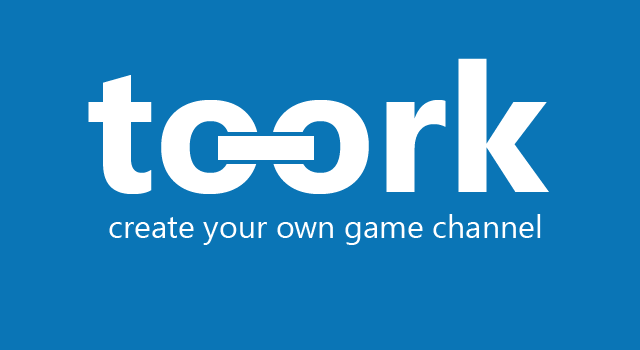
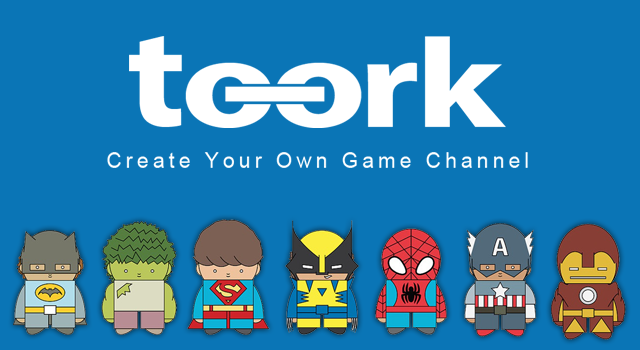
broken images and S3 integrations

diff --git a/app/Config/core.php b/app/Config/core.php
@@ -252,10 +252,10 @@ Configure::write('multiples',$multiple);
 
 # Broken Image Settings
 $broken=array(
-'toorksize'=>'http://behance.vo.llnwd.net/profiles8/1518537/projects/4937823/30028c7f07366643f15548e60dab2c95.jpg',
-'thumb'=>'http://behance.vo.llnwd.net/profiles8/1518537/projects/4937823/30028c7f07366643f15548e60dab2c95.jpg',
-'slider'=>'http://behance.vo.llnwd.net/profiles8/1518537/projects/4937823/30028c7f07366643f15548e60dab2c95.jpg',
-'avatar'=>'http://behance.vo.llnwd.net/profiles8/1518537/projects/4937823/30028c7f07366643f15548e60dab2c95.jpg'
+'toorksize'=>'https://s3.amazonaws.com/betatoorkpics/brokenavatars/toork_gameavatar_default.png',
+'thumb'=>'https://s3.amazonaws.com/betatoorkpics/brokenavatars/toork_gameslideavatar_default.png',
+'slider'=>'https://s3.amazonaws.com/betatoorkpics/brokenavatars/toork_slider_default.png',
+'avatar'=>'https://s3.amazonaws.com/betatoorkpics/brokenavatars/toork_manchannelavatar_default.png'
 );
 Configure::write('broken',$broken);
 
